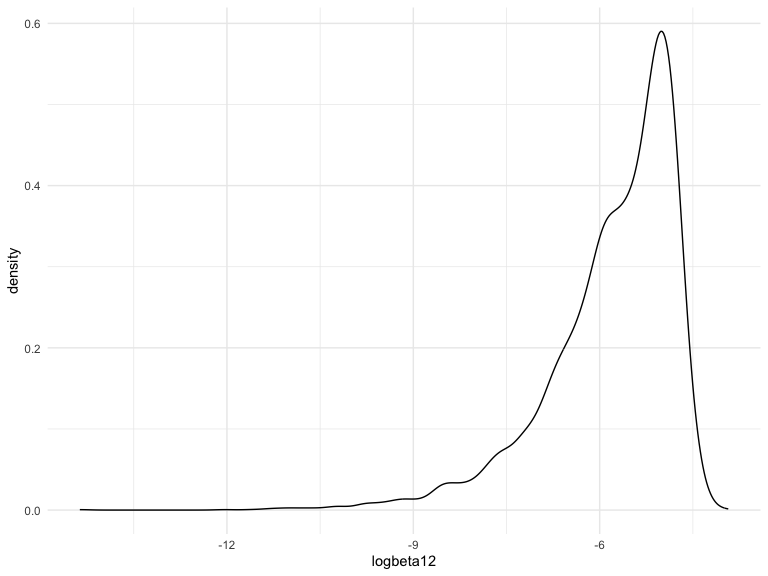
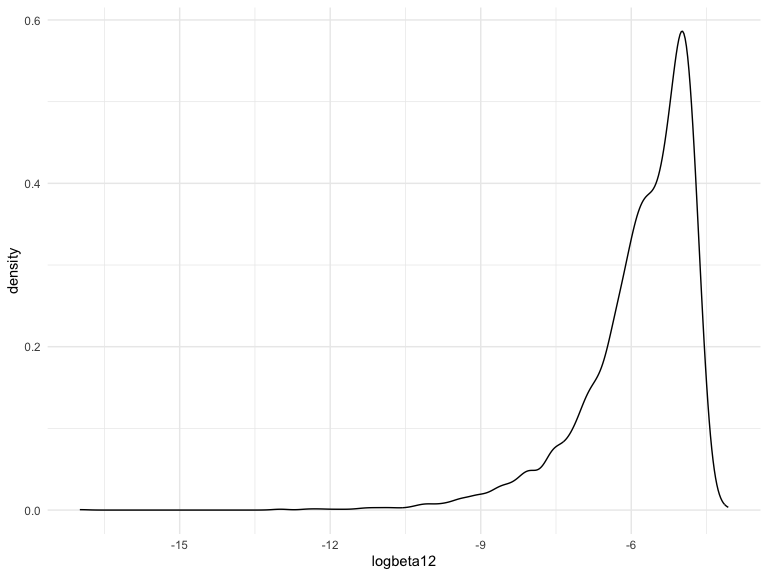
Problem 3 Draft

diff --git a/p8105_hw6_yy3421.md b/p8105_hw6_yy3421.md
@@ -73,7 +73,7 @@ boot_results_1 =
   ) |> 
   select(strap_number, results_1) |> 
   unnest(results_1) |> 
-  select(strap_number, adj.r.squared)
+  select(strap_number, r.squared)
 
 boot_results_2 = 
   boot_straps |> 
@@ -93,12 +93,12 @@ boot_results_2 =
 boot_results = 
   left_join(boot_results_1, boot_results_2, by = "strap_number") |> 
   janitor::clean_names() |> 
-  rename(beta0 = intercept,
-         beta1 = tmin,
-         beta2 = prcp) |> 
+  rename(beta_zero = intercept,
+         beta_one = tmin,
+         beta_two = prcp) |> 
   mutate(
-    logbeta01 = log(beta0*beta1),
-    logbeta12 = log(abs(beta1*beta2))
+    logbeta01 = log(beta_zero * beta_one),
+    logbeta12 = log(abs(beta_one * beta_two))
   )
 ```
 
@@ -106,7 +106,7 @@ boot_results =
 
 ``` r
 boot_results |> 
-  ggplot(aes(x = adj_r_squared))+
+  ggplot(aes(x = r_squared))+
   geom_density()
 ```
 
@@ -126,8 +126,8 @@ boot_results |>
 ``` r
 boot_results |> 
   summarize(
-    ci_lower_r = quantile(adj_r_squared, 0.025),
-    ci_upper_r = quantile(adj_r_squared, 0.975),
+    ci_lower_r = quantile(r_squared, 0.025),
+    ci_upper_r = quantile(r_squared, 0.975),
     ci_lower_beta01 = quantile(logbeta01, 0.025),
     ci_upper_beta01 = quantile(logbeta01, 0.975)
   )
@@ -136,13 +136,29 @@ boot_results |>
     ## # A tibble: 1 × 4
     ##   ci_lower_r ci_upper_r ci_lower_beta01 ci_upper_beta01
     ##        <dbl>      <dbl>           <dbl>           <dbl>
-    ## 1      0.888      0.940            2.06            2.14
+    ## 1      0.889      0.940            2.06            2.14
 
 ## Problem 3
 
 ``` r
 birthweight_df = 
-  read_csv("data/birthweight.csv") 
+  read_csv(
+    "data/birthweight.csv", na = c("", "NA", "Unknown")
+    ) |> 
+  mutate(
+    babysex = case_match(
+      babysex, 
+      1 ~ "male",
+      2 ~ "female"
+    ),
+    babysex = as.factor(babysex),
+    malform = case_match(
+      malform, 
+      0 ~ "absent",
+      1 ~ "present"
+    ),
+    malform = as.factor(malform)
+  )
 ```
 
     ## Rows: 4342 Columns: 20
@@ -152,3 +168,80 @@ birthweight_df =
     ## 
     ## ℹ Use `spec()` to retrieve the full column specification for this data.
     ## ℹ Specify the column types or set `show_col_types = FALSE` to quiet this message.
+
+``` r
+birthweight_df |> 
+  ggplot(aes(x = bhead, y = bwt)) + 
+  geom_point(alpha = .5)
+```
+
+<img src="p8105_hw6_yy3421_files/figure-gfm/distribution-1.png" width="90%" />
+
+### Propose a linear regression model
+
+``` r
+linear_mod_1 = lm(bwt ~ blength + babysex + malform, data = birthweight_df) 
+```
+
+### One using length at birth and gestational age as predictors (main effects only)
+
+``` r
+linear_mod_2 = 
+  lm(bwt ~ blength + gaweeks, data = birthweight_df)
+```
+
+\###One using head circumference, length, sex, and all interactions
+(including the three-way interaction) between these
+
+``` r
+linear_mod_3 = 
+  lm(bwt ~ bhead + blength + babysex + bhead*blength*babysex, data = birthweight_df) 
+```
+
+``` r
+birthweight_df |> 
+  gather_predictions(linear_mod_1, linear_mod_2, linear_mod_3) |> 
+  mutate(model = fct_inorder(model)) |> 
+  ggplot(aes(x = blength, y = bwt)) + 
+  geom_point(alpha = .5) +
+  geom_line(aes(y = pred), color = "red") + 
+  facet_grid(~model)
+```
+
+<img src="p8105_hw6_yy3421_files/figure-gfm/compare-1.png" width="90%" />
+
+``` r
+cv_df =
+  crossv_mc(birthweight_df, 100) |> 
+  mutate(
+    train = map(train, as_tibble),
+    test = map(test, as_tibble))
+```
+
+``` r
+cv_df = 
+  cv_df |> 
+  mutate(
+    mod_1 = map(train, \(df) lm(bwt ~ blength + babysex + malform, data = df)),
+    mod_2 = map(train, \(df) lm(bwt ~ blength + gaweeks, data = df)),
+    mod_3  = map(train, \(df) lm(bwt ~ bhead + blength + babysex + bhead*blength*babysex, data = df))
+    ) |> 
+  mutate(
+    rmse_1 = map2_dbl(mod_1, test, \(mod, df) rmse(model = mod, data = df)),
+    rmse_2    = map2_dbl(mod_2, test, \(mod, df) rmse(model = mod, data = df)),
+    rmse_3 = map2_dbl(mod_3, test, \(mod, df) rmse(model = mod, data = df)))
+```
+
+``` r
+cv_df |> 
+  select(starts_with("rmse")) |> 
+  pivot_longer(
+    everything(),
+    names_to = "model", 
+    values_to = "rmse",
+    names_prefix = "rmse_") |> 
+  mutate(model = fct_inorder(model)) |> 
+  ggplot(aes(x = model, y = rmse)) + geom_violin()
+```
+
+<img src="p8105_hw6_yy3421_files/figure-gfm/unnamed-chunk-6-1.png" width="90%" />
